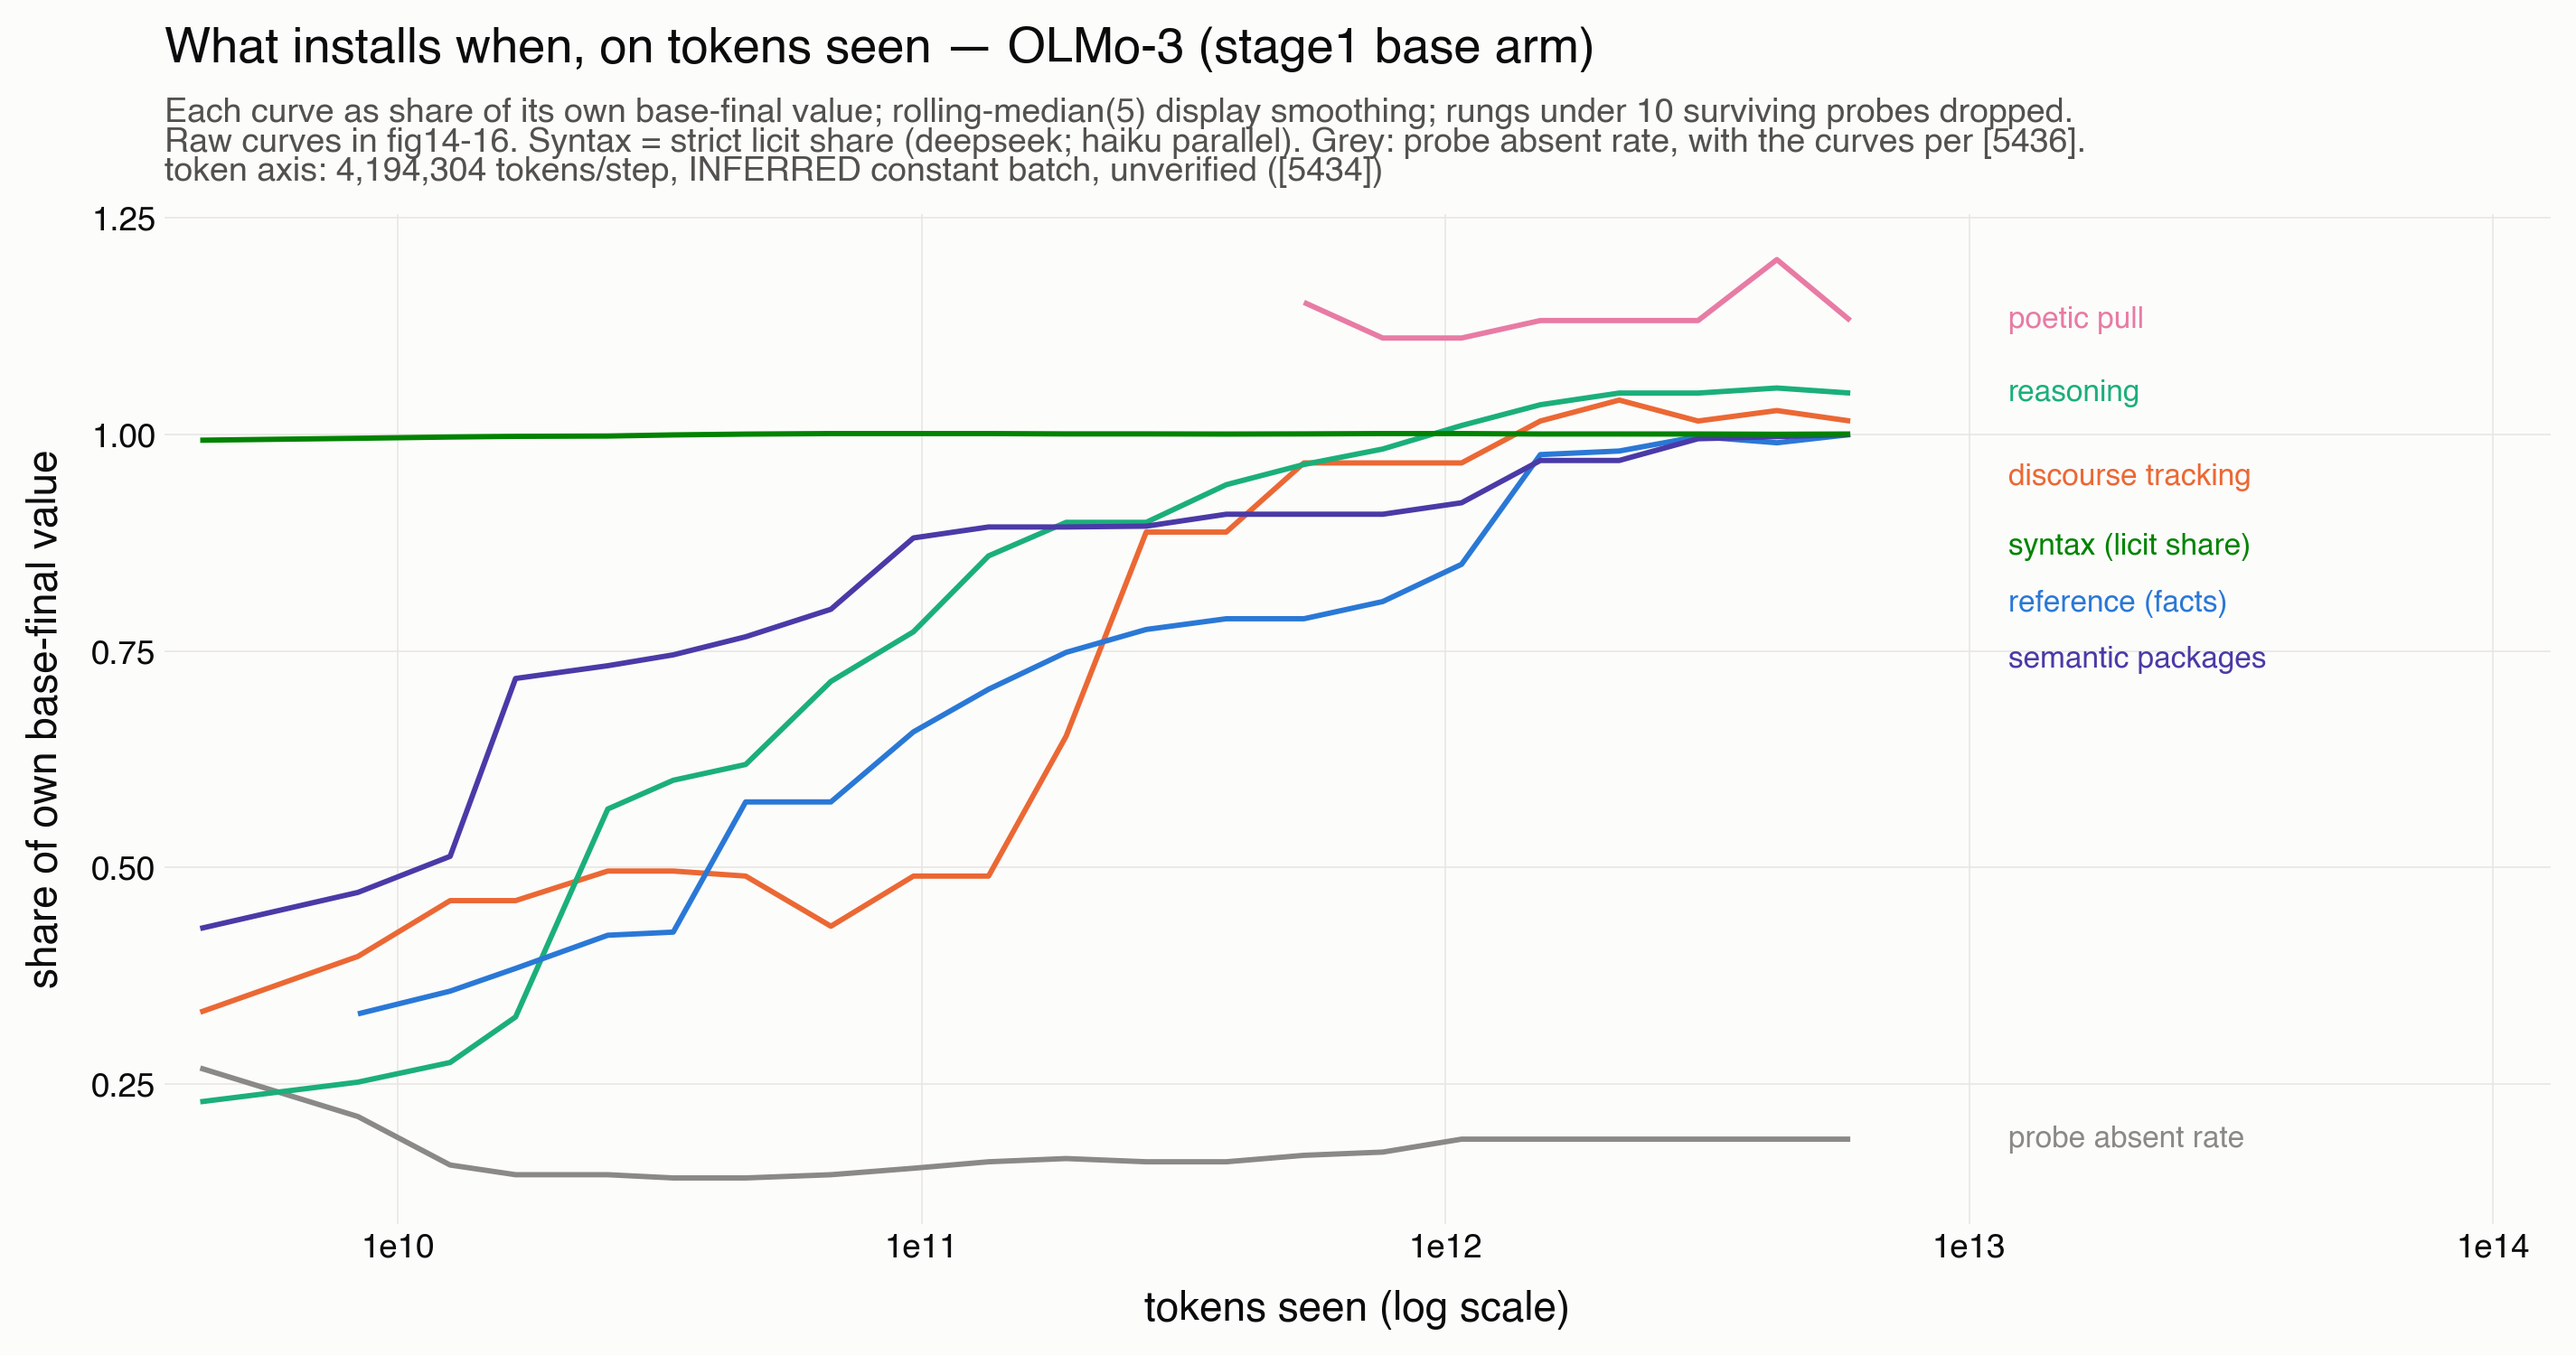
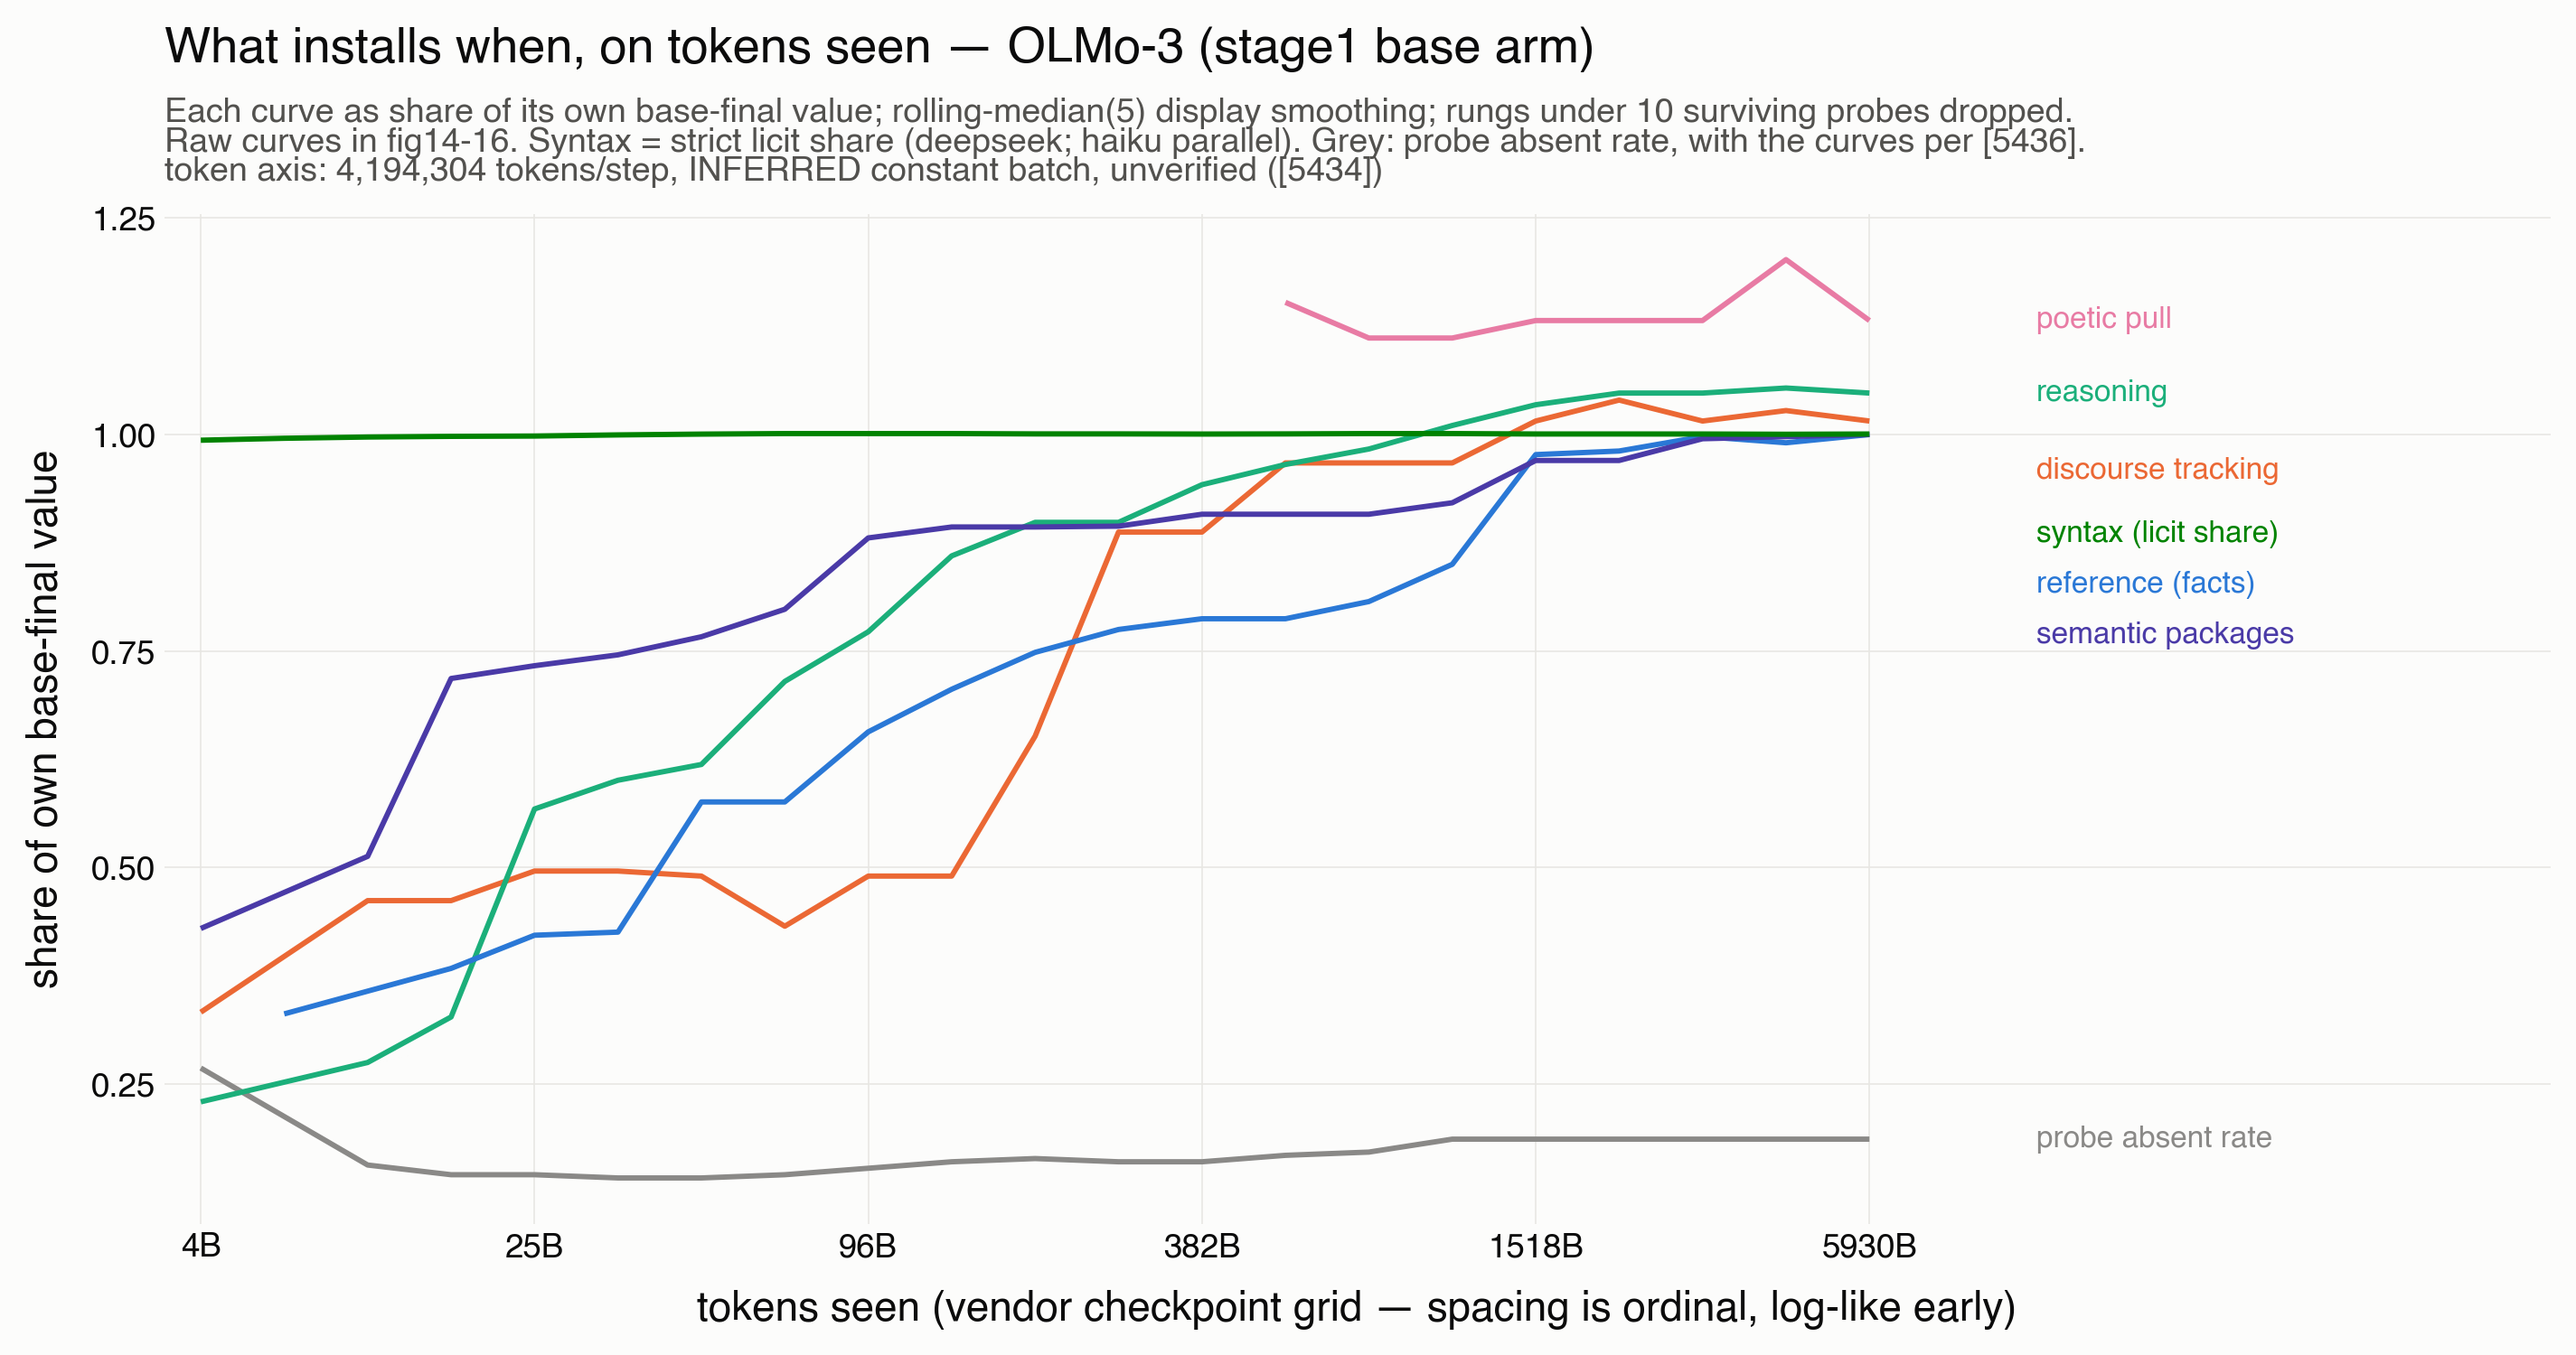
fig17 v2: ordinal token-labelled axis, endpoint-anchored labels
Log axis dropped for the vendor-grid ordinal with human token labels
(2M/44B/300B; 4B..5930B); curve labels anchored to each line's own
endpoint with minimal collision nudges.

diff --git a/meta/M05_emergence/scripts/m05_acquisition_tokens.py b/meta/M05_emergence/scripts/m05_acquisition_tokens.py
@@ -120,8 +120,8 @@ def syntax_share(ladder):
 def main():
     from plotnine import (aes, annotate, element_blank, element_line,
                           element_rect, element_text, geom_line, ggplot,
-                          labs, scale_color_manual, scale_x_log10, theme,
-                          theme_minimal)
+                          labs, scale_color_manual, scale_x_continuous,
+                          theme, theme_minimal)
     TH = (theme_minimal(base_size=11) +
           theme(panel_grid_minor=element_blank(),
                 panel_grid_major=element_line(color="#e8e7e3", size=0.4),
@@ -153,44 +153,53 @@ def main():
             for r, v in by.items():
                 st = steps.get(r, 0)
                 if not st or st <= 0:
-                    continue  # step 0 has no place on a log axis
-                rows.append(dict(tokens=st * TOK[ladder], curve=label,
-                                 v=v / final))
+                    continue  # step 0 is the floor, not a rung
+                rows.append(dict(ckpt_idx=r, curve=label, v=v / final))
         for r, v in absr.items():
             st = steps.get(r, 0)
             if st and st > 0:
-                rows.append(dict(tokens=st * TOK[ladder],
-                                 curve="probe absent rate", v=v))
-        d = pd.DataFrame(rows)
+                rows.append(dict(ckpt_idx=r, curve="probe absent rate",
+                                 v=v))
+        d = pd.DataFrame(rows).rename(columns={"ckpt_idx": "tokens"})
         d = smooth(d)
+        d = d.rename(columns={"tokens": "ckpt_idx"})
         d = d[(d.v > -0.15) & (d.v < 1.35)]  # clip residual display noise
-        finals = (d[d.curve != "probe absent rate"]
-                  .sort_values("tokens").groupby("curve").v.last())
-        xmax = d.tokens.max()
-        labels_y = {}
-        used = []
-        for cname, y in sorted(finals.items(), key=lambda kv: -kv[1]):
-            yy = y
-            while any(abs(yy - u) < 0.06 for u in used):
-                yy -= 0.065
+
+        #: ordinal vendor grid on x (log-spaced early, so no empty
+        #: decades), break labels in token units
+        def tok_label(r):
+            t = steps.get(r, 0) * TOK[ladder]
+            return (f"{t / 1e9:.0f}B" if t >= 1e9 else f"{t / 1e6:.0f}M")
+
+        cand = sorted(set(d.ckpt_idx))
+        brk = [cand[i] for i in
+               sorted({0, len(cand) // 5, 2 * len(cand) // 5,
+                       3 * len(cand) // 5, 4 * len(cand) // 5,
+                       len(cand) - 1})]
+        xmax = max(cand)
+        #: labels anchored to each line's own endpoint, minimal nudges
+        ends = (d.sort_values("ckpt_idx").groupby("curve")
+                .agg(x=("ckpt_idx", "last"), y=("v", "last")))
+        labels_y, used = {}, []
+        for cname, r in ends.sort_values("y", ascending=False).iterrows():
+            yy = float(r.y)
+            while any(abs(yy - u) < 0.055 for u in used):
+                yy -= 0.058
             used.append(yy)
             labels_y[cname] = yy
         note = ("token axis: 2,097,152 tokens/step, documented"
                 if ladder == "pythia" else
                 "token axis: 4,194,304 tokens/step, INFERRED constant "
                 "batch, unverified ([5434])")
-        p = (ggplot(d, aes("tokens", "v", color="curve"))
+        p = (ggplot(d, aes("ckpt_idx", "v", color="curve"))
              + geom_line(size=0.8)
              + scale_color_manual(PAL)
-             + scale_x_log10(expand=(0.02, 0, 0.30, 0))
-             + sum([[annotate("text", x=xmax * 2.0, y=yy, label=c,
+             + scale_x_continuous(breaks=brk,
+                                  labels=[tok_label(b) for b in brk],
+                                  expand=(0.02, 0, 0.28, 0))
+             + sum([[annotate("text", x=xmax + 2, y=yy, label=c,
                               color=PAL[c], size=8, ha="left")]
                     for c, yy in labels_y.items()], [])
-             + annotate("text", x=xmax * 2.0,
-                        y=float(d[d.curve == "probe absent rate"]
-                                .sort_values("tokens").v.iloc[-1]),
-                        label="probe absent rate", color=GREY, size=8,
-                        ha="left")
              + labs(title=f"What installs when, on tokens seen — "
                           f"{'Pythia-6.9b' if ladder == 'pythia' else 'OLMo-3 (stage1 base arm)'}",
                     subtitle="Each curve as share of its own base-final "
@@ -200,7 +209,8 @@ def main():
                              "licit share (deepseek; haiku parallel). "
                              "Grey: probe absent rate, with the curves "
                              "per [5436].\n" + note,
-                    x="tokens seen (log scale)",
+                    x="tokens seen (vendor checkpoint grid — spacing is "
+                      "ordinal, log-like early)",
                     y="share of own base-final value")
              + TH)
         p.save(f"{FIGDIR}/fig17_acquisition_tokens_{ladder}.png", dpi=300,
